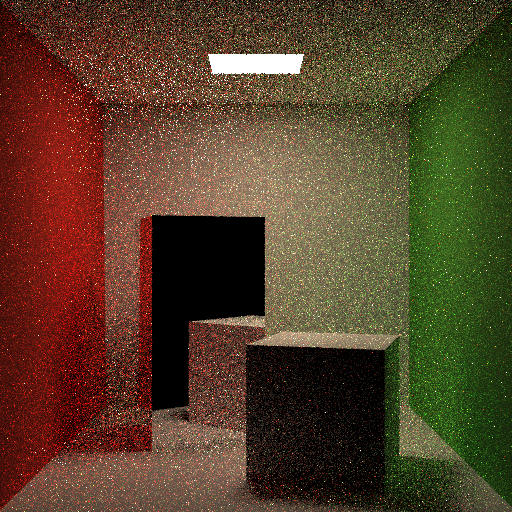
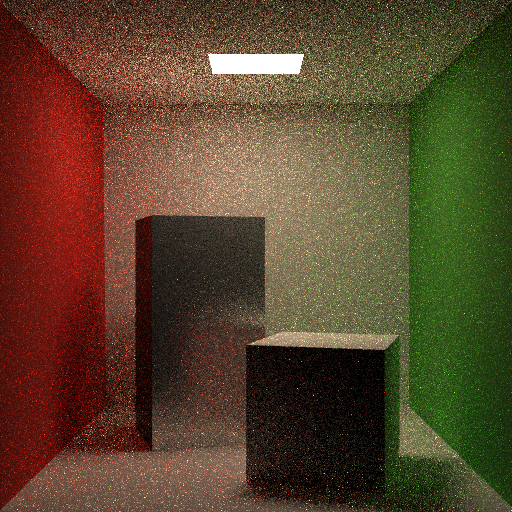
Update: Microfacet material.

diff --git a/src/scene.cpp b/src/scene.cpp
@@ -1,4 +1,5 @@
 #include "scene.h"
+#include "utils.h"
 
 void Scene::loadSceneBox(Config *config) {
     auto redDiffuseMaterial = make_shared<DiffuseMaterial>(vec3(0.63, 0.065, 0.05));
@@ -212,7 +213,53 @@ vec3 Scene::shadeMirror(const HitRecord &hitRecord, const Ray &rayIn) {
 }
 
 vec3 Scene::shadeMicrofacet(const HitRecord &hitRecord, const Ray &rayIn) {
+    // Contribution from the light source
+    vec3 lightPoint, lightNormal, lightColor;
+    float lightPdf;
+    sampleLight(lightPoint, lightNormal, lightColor, lightPdf);
+    vec3 hitToLight = lightPoint - hitRecord.point;
+    vec3 hitToLightUnit = normalize(hitToLight);
 
+    vec3 lightDir = {0, 0, 0};
+    HitRecord lightTestHitRecord;  // to test if hit point can see light
+    bool lightTestStatus = accelStructure->intersect(Ray(hitRecord.point, hitToLightUnit), lightTestHitRecord);
+    auto lightBias = length(lightTestHitRecord.point - lightPoint);
+    if (lightTestStatus && lightBias < 0.0005f) {
+        vec3 brdf = hitRecord.material->brdf(rayIn.direction, hitToLightUnit, hitRecord.normal);
+        float cosTheta = std::max(0.0f, dot(hitRecord.normal, hitToLightUnit));
+        float cosThetaPi = std::max(0.0f, dot(lightNormal, -hitToLightUnit));
+        lightDir += lightColor * brdf * cosTheta * cosThetaPi / dot(hitToLight, hitToLight) / lightPdf;
+    }
+
+    // Contribution from other reflectors
+    vec3 lightInDir = {0, 0, 0};
+    if (glm::linearRand(0.0f, 1.0f) < RUSSIAN_ROULETTE) {
+        vec2 Xi = glm::linearRand(vec2(0.0f, 0.0f), vec2(1.0f, 1.0f));
+        auto microfacetMaterial = std::static_pointer_cast<MicrofacetMaterial>(hitRecord.material);
+        vec3 H = importanceSampleGGX(Xi, hitRecord.normal, microfacetMaterial->getRoughness());
+        vec3 V = -rayIn.direction;
+        vec3 L = 2.0f * dot(V, H) * H - V;
+
+        float NoL = glm::clamp(dot(hitRecord.normal, L), 0.0f, 1.0f);
+        if (NoL > 0.0f) {
+            HitRecord reflectorHitRecord;
+            bool reflectorStatus = accelStructure->intersect(Ray(hitRecord.point, L), reflectorHitRecord);
+            if (reflectorStatus && !reflectorHitRecord.material->hasEmission()) {
+                float NoV = glm::clamp(dot(hitRecord.normal, V), 0.0f, 1.0f);
+                float NoH = glm::clamp(dot(hitRecord.normal, H), 0.0f, 1.0f);
+                float VoH = glm::clamp(dot(V, H), 0.0f, 1.0f);
+
+                if (NoL > 0.0f) {
+                    float G = geometricSmith(microfacetMaterial->getRoughness(), NoV, NoL);
+                    float Fc = std::pow(1.0f - VoH, 5.0f);
+                    vec3 F = (1.0f - Fc) * microfacetMaterial->getColor() + vec3(Fc, Fc, Fc);
+                    lightInDir += shade(reflectorHitRecord, Ray(hitRecord.point, L)) * F * G * VoH / (NoH * NoV) / (float)RUSSIAN_ROULETTE;
+                }
+            }
+        }
+    }
+
+    return lightDir + lightInDir;
 }
 
 inline vec3 Scene::shade(const HitRecord &hitRecord, const Ray &rayIn) {

diff --git a/src/utils.cpp b/src/utils.cpp
@@ -1,0 +1,50 @@
+#include "utils.h"
+
+vec3 randomCosineDirection() {
+    float r1 = glm::linearRand(0.0f, 1.0f);
+    float r2 = glm::linearRand(0.0f, 1.0f);
+    auto z = glm::sqrt(1 - r2);
+    auto phi = 2 * (float)PI * r1;
+    auto x = glm::cos(phi) * glm::sqrt(r2);
+    auto y = glm::sin(phi) * glm::sqrt(r2);
+    return {x, y, z};
+}
+
+void buildOrthonormalBasis(const vec3 &normal, vec3 &u, vec3 &v, vec3 &w) {
+    // u, v, w is a right-hand basis
+    w = normalize(normal);
+    vec3 a = (fabsf(w.x) > 0.9f) ? vec3(0,1,0) : vec3(1,0,0);
+    v = normalize(cross(w, a));
+    u = normalize(cross(v, w));
+}
+
+vec3 importanceSampleGGX(vec2 Xi, vec3 N, float roughness)
+{
+    float alpha = roughness * roughness;
+    float alpha2 = alpha * alpha;
+
+    float phi = 2.0 * PI * Xi.x;
+    float cosTheta = sqrt((1.0 - Xi.y) / (1.0 + (alpha2 - 1.0) * Xi.y));
+    float sinTheta = sqrt(1.0 - cosTheta * cosTheta);
+
+    // from spherical coordinates to cartesian coordinates
+    vec3 H;
+    H.x = cos(phi) * sinTheta;
+    H.y = sin(phi) * sinTheta;
+    H.z = cosTheta;
+
+    // from tangent-space vector to world-space sample vector
+    vec3 up        = abs(N.z) < 0.999 ? vec3(0.0, 0.0, 1.0) : vec3(1.0, 0.0, 0.0);
+    vec3 tangent   = normalize(cross(up, N));
+    vec3 bitangent = cross(N, tangent);
+
+    vec3 sampleVec = tangent * H.x + bitangent * H.y + N * H.z;
+    return normalize(sampleVec);
+}
+
+float geometricSmith(float roughness, float NoV, float NoL) {
+    float k = (roughness + 1.0f) * (roughness + 1.0f) / 8.0f;
+    float gl = NoV / (NoV * (1.0f - k) + k);
+    float gv = NoL / (NoL * (1.0f - k) + k);
+    return gl * gv;
+}

diff --git a/src/material.cpp b/src/material.cpp
@@ -1,22 +1,5 @@
 #include "material.h"
-
-inline vec3 randomCosineDirection() {
-    float r1 = glm::linearRand(0.0f, 1.0f);
-    float r2 = glm::linearRand(0.0f, 1.0f);
-    auto z = glm::sqrt(1 - r2);
-    auto phi = 2 * (float)PI * r1;
-    auto x = glm::cos(phi) * glm::sqrt(r2);
-    auto y = glm::sin(phi) * glm::sqrt(r2);
-    return {x, y, z};
-}
-
-void buildOrthonormalBasis(const vec3 &normal, vec3 &u, vec3 &v, vec3 &w) {
-    // u, v, w is a right-hand basis
-    w = normalize(normal);
-    vec3 a = (fabsf(w.x) > 0.9f) ? vec3(0,1,0) : vec3(1,0,0);
-    v = normalize(cross(w, a));
-    u = normalize(cross(v, w));
-}
+#include "utils.h"
 
 void DiffuseMaterial::reflect(const vec3 &rayInDir, const vec3 &normal, vec3 &rayOutDir, float &pdf) const {
     // Uniform sampling a hemisphere
@@ -44,9 +27,10 @@ vec3 MirrorMaterial::brdf(const vec3 &rayInDir, const vec3 &rayOutDir, const vec
 }
 
 void MicrofacetMaterial::reflect(const vec3 &rayInDir, const vec3 &normal, vec3 &rayOutDir, float &pdf) const {
-
+    throw std::runtime_error("Not implemented.");
 }
 
 vec3 MicrofacetMaterial::brdf(const vec3 &rayInDir, const vec3 &rayOutDir, const vec3 &normal) const {
-
+    if (dot(normal, rayOutDir) > 0.0f) return albedo / (float)PI;
+    else return {0, 0, 0};
 }

diff --git a/src/application.cpp b/src/application.cpp
@@ -55,7 +55,7 @@ Application::Application() : nanogui::Screen(nanogui::Vector2i(SCREEN_WIDTH + FO
     using namespace nanogui;
 
     renderer = new Renderer();
-    config = new Config(BOX, 10, DIFFUSE, UNIFORM, 0.5, 8, SAH, FILTER_NONE, GBUFFER_NONE);
+    config = new Config(BOX, 10, DIFFUSE, UNIFORM, 0.2, 8, SAH, FILTER_NONE, GBUFFER_NONE);
 
     FormHelper *form = new FormHelper(this);
     ref<Window> setting = form->addWindow(Eigen::Vector2i(MARGIN, MARGIN), "Settings");
@@ -87,7 +87,7 @@ Application::Application() : nanogui::Screen(nanogui::Vector2i(SCREEN_WIDTH + FO
     vRoughness->setFixedWidth(VALUE_WIDTH);
     vRoughness->setSpinnable(true);
     vRoughness->setMinMaxValues(0.0, 1.0);
-    vRoughness->setValueIncrement(0.1);
+    vRoughness->setValueIncrement(0.01);
     vRoughness->setTooltip("Roughness value for microfacet material.");
 
     form->addGroup("Optimization Settings");

diff --git a/include/utils.h b/include/utils.h
@@ -1,0 +1,11 @@
+#ifndef VPATHTRACER_UTILS_H
+#define VPATHTRACER_UTILS_H
+
+#include "common.h"
+
+vec3 randomCosineDirection();
+void buildOrthonormalBasis(const vec3 &normal, vec3 &u, vec3 &v, vec3 &w);
+vec3 importanceSampleGGX(vec2 Xi, vec3 N, float roughness);
+float geometricSmith(float roughness, float NoV, float NoL);
+
+#endif //VPATHTRACER_UTILS_H

diff --git a/include/material.h b/include/material.h
@@ -51,6 +51,7 @@ public:
     vec3 brdf(const vec3 &rayInDir, const vec3 &rayOutDir, const vec3 &normal) const override;
 
     vec3 getColor() const override { return albedo; }
+    float getRoughness() const { return roughness; }
 
 private:
     vec3 albedo;
